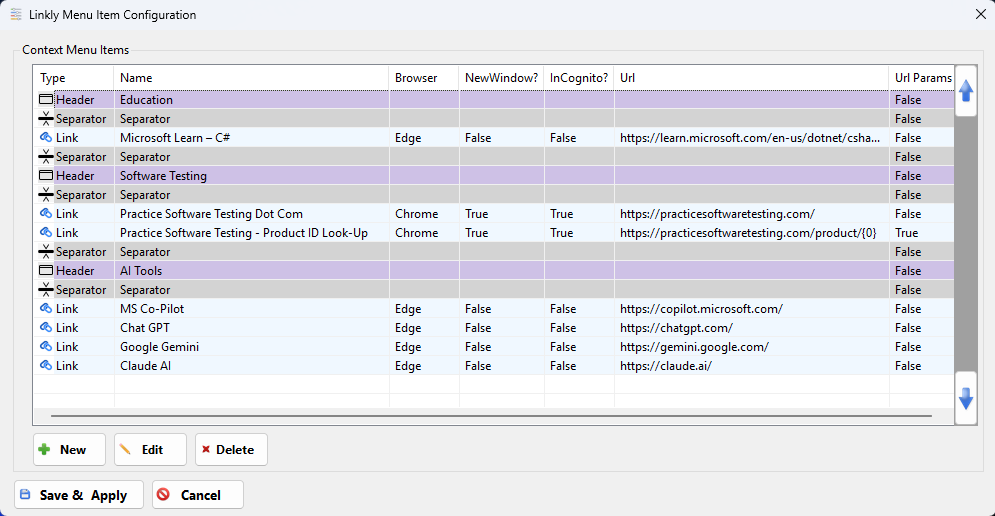
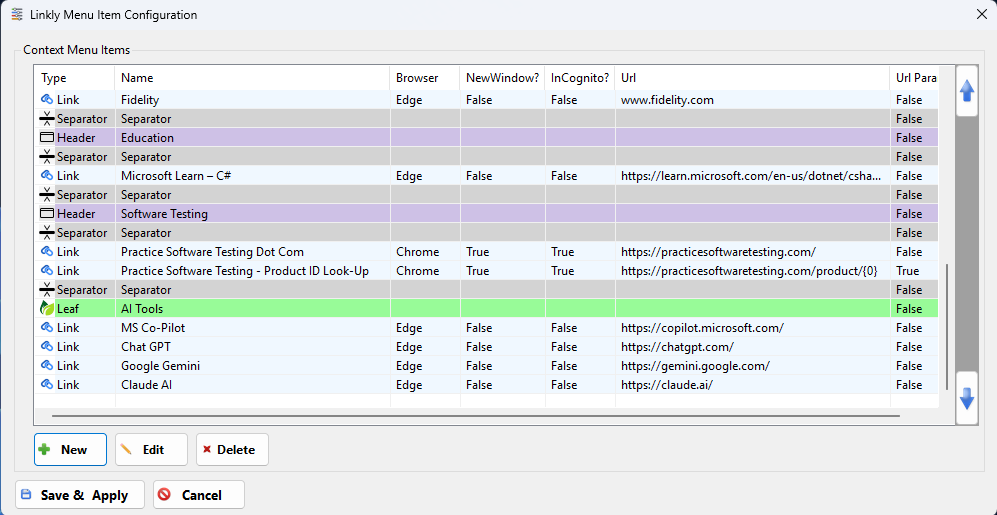
Adding new Leaf Menu Item feature so links can be displayed as child menu items of a parent Leaf node.  Included new Leaf.png image file and updated sample LinklyConfig.json to contain Leaf node sample. Set Product Version to 1.0.2 in the project file and updated the Help --> About menu to dynamical

diff --git a/Linkly/Forms/LinkSettingsForm.cs b/Linkly/Forms/LinkSettingsForm.cs
@@ -33,7 +33,7 @@ namespace Linkly
             this.ButtonToolTip.SetToolTip(this.MoveDownButton, "Move Selected Menu Item Down");
             this.ButtonToolTip.SetToolTip(this.SaveButton, "Save + Apply Changes & Close");
             this.ButtonToolTip.SetToolTip(this.CancelFormButton, "Cancel Changes & Close");
-            this.ButtonToolTip.SetToolTip(this.NewButton, "Create a new Link, Header or Separator");
+            this.ButtonToolTip.SetToolTip(this.NewButton, "Create a new Link, Header, Separator or Leaf");
             this.ButtonToolTip.SetToolTip(this.EditButton, "Edit Selected Menu Item");
             this.ButtonToolTip.SetToolTip(this.DeleteButton, "Delete Selected Menu Item");
 
@@ -42,6 +42,7 @@ namespace Linkly
             listViewImages.Images.Add("LinkIcon", Properties.Resources.linkly_icon_512x512);
             listViewImages.Images.Add("HeaderIcon", Properties.Resources.header);
             listViewImages.Images.Add("SeparatorIcon", Properties.Resources.separator);
+            listViewImages.Images.Add("LeafIcon", Properties.Resources.Leaf);
 
             // Assign to the ListView - SmallImageList is used in Details/List view
             this.LinksListView.SmallImageList = listViewImages;
@@ -160,10 +161,11 @@ namespace Linkly
                     switch (config.MenuItemType)
                     {
                         case MenuItemType.Header:
+                        case MenuItemType.Leaf:
                             {
                                 // Prompt the user for the name of the new Header Menu Item Type
-                                var inputDialog = new InputDialog("Re-Enter the Header Item Text",
-                                                                  $"Please enter a new name for the '{config.Name}' Header Menu Item:");
+                                var inputDialog = new InputDialog($"Re-Enter the {config.MenuItemType} Item Text",
+                                                                  $"Please enter a new name for the '{config.Name}' {config.MenuItemType} Menu Item:");
 
                                 if (inputDialog.ShowDialog() == DialogResult.OK)
                                 {
@@ -341,6 +343,32 @@ namespace Linkly
             this.HasChanges = true;
         }
 
+        /// <summary>
+        /// New Leaf Node Context Menu Item Click Event Method 
+        /// </summary>
+        /// <param name="sender">sender</param>
+        /// <param name="e">event args</param>
+        private void leafToolStripMenuItem_Click(object sender, EventArgs e)
+        {
+            // Prompt the user for the name of the new Header Menu Item Type
+            var inputDialog = new InputDialog("Enter the Leaf Item Text",
+                                              "Please enter a name for the new Leaf Item:");
+
+            if (inputDialog.ShowDialog() == DialogResult.OK)
+            {
+                // Create the Configuration Menu Item
+                var config = new MenuItem
+                {
+                    MenuItemType = MenuItemType.Leaf,
+                    Name = inputDialog.OutputTextValue,
+                    ImageFileName = "Leaf.png"
+                };
+
+                AddNewListViewItem(config);
+                this.HasChanges = true;
+            }
+        }
+
         #endregion
 
         #region ListView Grid Form Control Events
@@ -371,6 +399,14 @@ namespace Linkly
 
                 // Create the new ListView Item
                 var item = new ListViewItem(config.MenuItemType.ToString());
+                item.SubItems.Add(config.Name);
+                item.SubItems.Add(config.LinkOptions?.Browser.ToString());
+                item.SubItems.Add(config.LinkOptions?.IsNewWindow.ToString());
+                item.SubItems.Add(config.LinkOptions?.IsIncognito.ToString());
+                item.SubItems.Add(config.LinkOptions?.Url);
+                item.SubItems.Add(hasUrlParams.ToString());
+                item.Tag = config;
+                item.ImageKey = $"{config.MenuItemType.ToString()}Icon";
 
                 switch (config.MenuItemType)
                 {
@@ -383,16 +419,10 @@ namespace Linkly
                     case MenuItemType.Link:
                         item.BackColor = Color.AliceBlue;
                         break;
+                    case MenuItemType.Leaf:
+                        item.BackColor = Color.PaleGreen;
+                        break;
                 }
-
-                item.SubItems.Add(config.Name);
-                item.SubItems.Add(config.LinkOptions?.Browser.ToString());
-                item.SubItems.Add(config.LinkOptions?.IsNewWindow.ToString());
-                item.SubItems.Add(config.LinkOptions?.IsIncognito.ToString());
-                item.SubItems.Add(config.LinkOptions?.Url);
-                item.SubItems.Add(hasUrlParams.ToString());
-                item.Tag = config;
-                item.ImageKey = $"{config.MenuItemType.ToString()}Icon";
 
                 // Add the new ListViewItem to the bottom of the Grid
                 this.LinksListView.Items.Add(item);

diff --git a/Linkly/Services/UiMenuService.cs b/Linkly/Services/UiMenuService.cs
@@ -39,6 +39,11 @@ namespace Linkly.Services
                 }
             }
 
+            // Define variables to identify leaf nodes within the list
+            bool isLeafDropDown = false;
+            int leafNodeOffSet = 0;
+            ToolStripMenuItem currentLeafItem = null;
+
             /* Populate the items from the Configuration List into the ContextMenuItemStrip,
                as their designated MenuItemType, above all the static Linkly Tool Menu Items. */
             for (int i = 0; i < configuration.Count; i++)
@@ -65,13 +70,21 @@ namespace Linkly.Services
                         {
                             // Set Header Nodes with a higher font size & bold text.
                             toolStipMenuItem.Font = new Font("Segoe UI", 9, FontStyle.Bold);
+                            isLeafDropDown = false;
                             break;
                         }
                     case MenuItemType.Separator:
                         {
                             // Create & Add the Separator Node, and continue to the next iteration of the loop.
                             var toolStipSeparator = new ToolStripSeparator();
-                            this.MainContextMenuStrip.Items.Insert(i, toolStipSeparator);
+                            this.MainContextMenuStrip.Items.Insert(i - leafNodeOffSet, toolStipSeparator);
+                            isLeafDropDown = false;
+                            break;
+                        }
+                    case MenuItemType.Leaf:
+                        {
+                            // Set Leaf Nodes with a higher font size & bold text.
+                            toolStipMenuItem.Font = new Font("Segoe UI", 9, FontStyle.Bold);
                             break;
                         }
                     default:
@@ -97,7 +110,23 @@ namespace Linkly.Services
                         }
                     }
 
-                    this.MainContextMenuStrip.Items.Insert(i, toolStipMenuItem);
+                    // Determine if we are adding a standard ToolStripItem node, or a DropDownItem to a Leaf.
+                    if (isLeafDropDown)
+                    {
+                        currentLeafItem.DropDownItems.Add(toolStipMenuItem);
+                        leafNodeOffSet++;
+                    }
+                    else
+                    {
+                        this.MainContextMenuStrip.Items.Insert(i - leafNodeOffSet, toolStipMenuItem);
+                    }
+                    
+                    if (config.MenuItemType == MenuItemType.Leaf)
+                    {
+                        // Start a new Leaf Drop Down Menu
+                        isLeafDropDown = true;
+                        currentLeafItem = toolStipMenuItem;
+                    }
                 }
             }
         }

diff --git a/Linkly/Forms/LinkSettingsForm.Designer.cs b/Linkly/Forms/LinkSettingsForm.Designer.cs
@@ -44,6 +44,7 @@
             linkToolStripMenuItem = new ToolStripMenuItem();
             headerToolStripMenuItem = new ToolStripMenuItem();
             separatorToolStripMenuItem = new ToolStripMenuItem();
+            leafToolStripMenuItem = new ToolStripMenuItem();
             ButtonToolTip = new ToolTip(components);
             HyperlinkConfigGroupBox.SuspendLayout();
             panel1.SuspendLayout();
@@ -177,9 +178,9 @@
             // 
             // newItemButtonContextMenuStrip
             // 
-            newItemButtonContextMenuStrip.Items.AddRange(new ToolStripItem[] { linkToolStripMenuItem, headerToolStripMenuItem, separatorToolStripMenuItem });
+            newItemButtonContextMenuStrip.Items.AddRange(new ToolStripItem[] { linkToolStripMenuItem, headerToolStripMenuItem, separatorToolStripMenuItem, leafToolStripMenuItem });
             newItemButtonContextMenuStrip.Name = "newItemButtonContextMenuStrip";
-            newItemButtonContextMenuStrip.Size = new Size(125, 70);
+            newItemButtonContextMenuStrip.Size = new Size(125, 92);
             // 
             // linkToolStripMenuItem
             // 
@@ -205,6 +206,14 @@
             separatorToolStripMenuItem.Size = new Size(124, 22);
             separatorToolStripMenuItem.Text = "Separator";
             separatorToolStripMenuItem.Click += separatorToolStripMenuItem_Click;
+            // 
+            // leafToolStripMenuItem
+            // 
+            leafToolStripMenuItem.Image = Properties.Resources.Leaf;
+            leafToolStripMenuItem.Name = "leafToolStripMenuItem";
+            leafToolStripMenuItem.Size = new Size(124, 22);
+            leafToolStripMenuItem.Text = "Leaf";
+            leafToolStripMenuItem.Click += leafToolStripMenuItem_Click;
             // 
             // LinkSettingsForm
             // 
@@ -246,5 +255,6 @@
         private Button DeleteButton;
         private ToolTip ButtonToolTip;
         private Panel panel1;
+        private ToolStripMenuItem leafToolStripMenuItem;
     }
 }

diff --git a/Linkly/Forms/AboutLinklyForm.cs b/Linkly/Forms/AboutLinklyForm.cs
@@ -3,6 +3,7 @@ using System.Collections.Generic;
 using System.ComponentModel;
 using System.Data;
 using System.Drawing;
+using System.Reflection;
 using System.Text;
 using System.Windows.Forms;
 
@@ -26,6 +27,17 @@ namespace Linkly.Forms
         private void CloseButton_Click(object sender, EventArgs e)
         {
             this.Close();
+        }
+
+        /// <summary>
+        /// The Form Load Event Method
+        /// </summary>
+        /// <param name="sender">sender</param>
+        /// <param name="e">event args</param>
+        private void AboutLinklyForm_Load(object sender, EventArgs e)
+        {
+            var appVersion = Assembly.GetExecutingAssembly().GetName().Version;
+            this.label1.Text = $"Linkly v{appVersion.Major}.{appVersion.Minor}.{appVersion.Build}";
         }
     }
 }

diff --git a/Linkly/Properties/Resources.Designer.cs b/Linkly/Properties/Resources.Designer.cs
@@ -173,6 +173,16 @@ namespace Linkly.Properties {
         /// <summary>
         ///   Looks up a localized resource of type System.Drawing.Bitmap.
         /// </summary>
+        internal static System.Drawing.Bitmap Leaf {
+            get {
+                object obj = ResourceManager.GetObject("Leaf", resourceCulture);
+                return ((System.Drawing.Bitmap)(obj));
+            }
+        }
+        
+        /// <summary>
+        ///   Looks up a localized resource of type System.Drawing.Bitmap.
+        /// </summary>
         internal static System.Drawing.Bitmap linkly_icon_128x128 {
             get {
                 object obj = ResourceManager.GetObject("linkly_icon_128x128", resourceCulture);

diff --git a/Linkly/Forms/AboutLinklyForm.Designer.cs b/Linkly/Forms/AboutLinklyForm.Designer.cs
@@ -271,6 +271,7 @@
             Name = "AboutLinklyForm";
             StartPosition = FormStartPosition.CenterScreen;
             Text = "About Linkly...";
+            Load += AboutLinklyForm_Load;
             ResumeLayout(false);
             PerformLayout();
         }

diff --git a/Linkly/Helpers/Enums.cs b/Linkly/Helpers/Enums.cs
@@ -26,7 +26,8 @@ namespace Linkly
     {
         Link,
         Header,
-        Separator
+        Separator,
+        Leaf
     }
 
     /// <summary>

diff --git a/README.md b/README.md
@@ -20,7 +20,19 @@ Linkly is a lightweight Windows system tray utility that puts a fully customizab
         <li>Updated the Sample LinklyConfig.json file with expanded default options, including new 'Cloud Services', 'Shopping', 'Video Games' and 'Banking & Finance' headers and sample links.</li>
       </ul>
     </td>
-    <td>8/17/2027</td>
+    <td>8/17/2026</td>
+  </tr>
+    <tr>
+    <td>v1.0.2</td>
+      <ul>
+        <li>New Feature:  Added new 'Leaf' parent node menu item feature, where a new Leaf ndoe can be added, and any links stored directly beneath the Leaf node will be displayed as sub-menu items or drop down items from the parent Leaf node.</li>
+        <li>Added new Product Version to the Project file to match the app and file version.</li>
+        <li>Updated the 'Help --> About Linkly' dialog to dynamically display the product version from the project file instead of hard coding it as a string.</li>
+        <li>Updated Sample LinklyConfig.json file display the 'AI Tools' node as a Leaf node, as an example of the new feature.</li>
+        <li>Included new Leaf.png image as a sample image to be copied to the \Linkly\ folder on first run of the application.</li>
+      </ul>
+    </td>
+    <td>8/31/2026</td>
   </tr>
 </table>
 
@@ -33,6 +45,7 @@ Linkly is a lightweight Windows system tray utility that puts a fully customizab
 - **Custom icons per link** — Assign your own icon image to each link entry.
 - **Dynamic URL parameters** — Define named parameters with placeholder values to build dynamic lookup links (e.g. product ID lookups) from a single configuration entry.
 - **Organized sections** — Group related links under headers with separators for a clean, organized menu.
+- **Sub-menus with Leaf nodes** — Nest related links beneath a Leaf node to display them as a collapsible sub-menu instead of a flat list.
 
 ## Menu Overview
 
@@ -40,11 +53,12 @@ Once running, Linkly sits in your Windows system tray. Right-click the tray icon
 
 ![Linkly Tray Menu](screenshots/tray-menu-overview.png)
 
-The menu is built from three types of entries:
+The menu is built from four types of entries:
 
-- **Header** — a bold, labeled section divider (e.g. *Education*, *Software Testing*, *AI Tools*) used to group related links together.
+- **Header** — a bold, labeled section divider (e.g. *Cloud Services*, *Social Media*, *Shopping*) used to group related links together.
 - **Separator** — a thin horizontal line used to visually break up sections without adding a label.
 - **Link** — a clickable entry (shown with its site's icon) that opens the configured URL in your chosen browser.
+- **Leaf** — a special parent node whose child links are displayed as a sub-menu (flyout/drop-down) beneath it, instead of being listed directly in the main menu. In the screenshot above, **AI Tools** is a Leaf node — hovering over it opens a flyout containing MS Co-Pilot, Chat GPT, Google Gemini, and Claude AI. See [Leaf Nodes](#leaf-nodes) below for details.
 
 At the bottom of the menu you'll also find **Menu Item Configuration** (to edit your links), **About Linkly**, and **Exit**.
 
@@ -69,6 +83,7 @@ At the bottom of the menu you'll also find **Menu Item Configuration** (to edit 
 Right-click the tray icon and select **Menu Item Configuration** to open the Context Menu Items screen.
 
 ![Linkly Menu Item Configuration](screenshots/menu-item-configuration.png)
+*(Note the highlighted **Leaf** row — "AI Tools" — followed directly by its four child Link rows. See [Leaf Nodes](#leaf-nodes) below for how this is rendered in the tray menu.)*
 
 From here you can:
 
@@ -101,6 +116,34 @@ Clicking **New** opens a small menu letting you choose which type of entry to ad
   | **New Browser Window?** | Whether to open in a new browser window |
   | **Url** | The target URL |
   | **Url Parameters** | Optional table of named parameters, each with a placeholder value, for building dynamic links (e.g. product ID lookups) |
+
+### Leaf Nodes
+
+A **Leaf** node behaves like a Header, except that instead of the following links being listed directly in the main menu, they're displayed as a **sub-menu** (flyout/drop-down) beneath the Leaf node itself.
+
+Any Link entries placed directly beneath a Leaf node in `LinklyConfig.json` become children of that Leaf, and will appear as sub-menu items when you hover over or click the Leaf node.
+
+**What ends a Leaf's sub-menu:** a Leaf node's children continue until Linkly encounters either a **Separator** or a standard **Header** entry in the configuration. That entry — and everything after it — is treated as a terminator: it (and any items that follow) will be displayed as normal top-level menu items again, *not* as children of the Leaf. In other words, only consecutive Link entries directly following a Leaf become part of its sub-menu.
+
+**Example configuration structure:**
+
+```
+Leaf: AI Tools
+  Link: MS Co-Pilot
+  Link: Chat GPT
+  Link: Google Gemini
+  Link: Claude AI
+Separator                  ← terminates the "AI Tools" Leaf
+Header: Shopping
+  Link: Amazon
+```
+
+In the menu, this renders as:
+- **AI Tools** ▸ *(hover to see a sub-menu containing MS Co-Pilot, Chat GPT, Google Gemini, and Claude AI)*
+- a normal separator line
+- **Shopping** header, followed by the Amazon link as a regular top-level entry
+
+Leaf nodes are useful for keeping the top-level menu short while still organizing a larger number of related links — see the `AI Tools` entry in the sample `LinklyConfig.json` for a working example.
 
 #### Example: Dynamic URL Parameters
 
